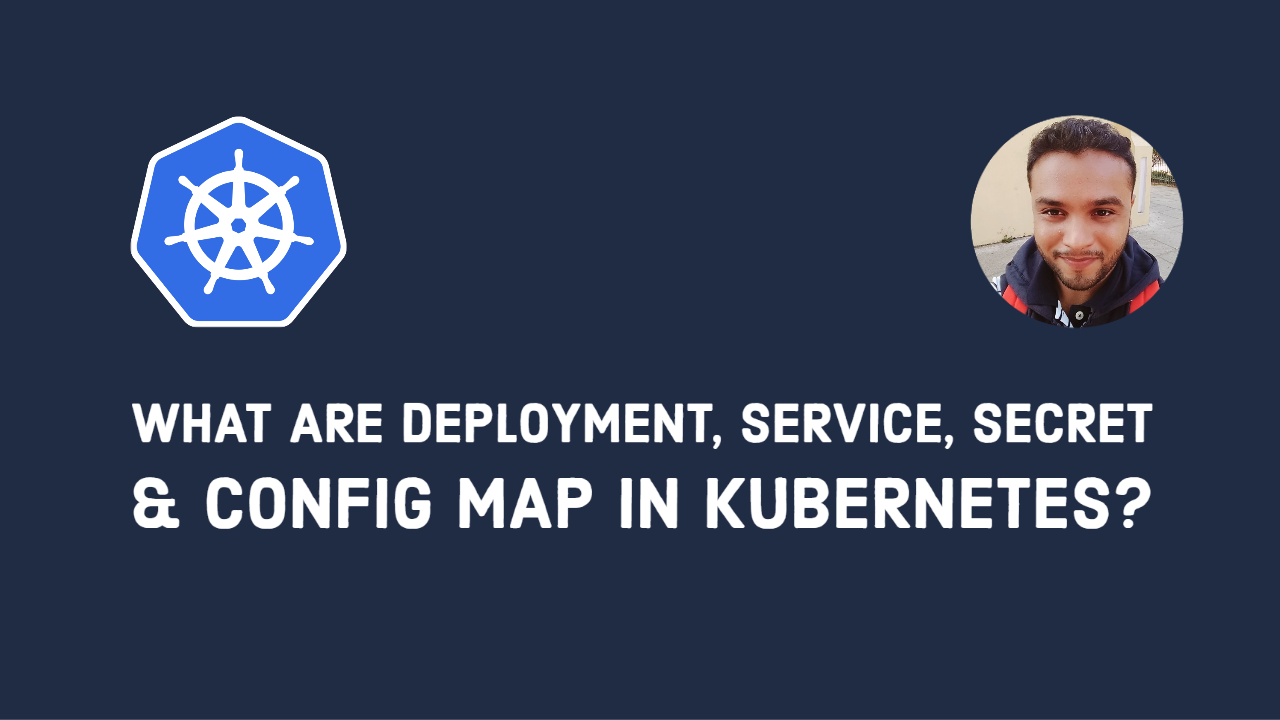
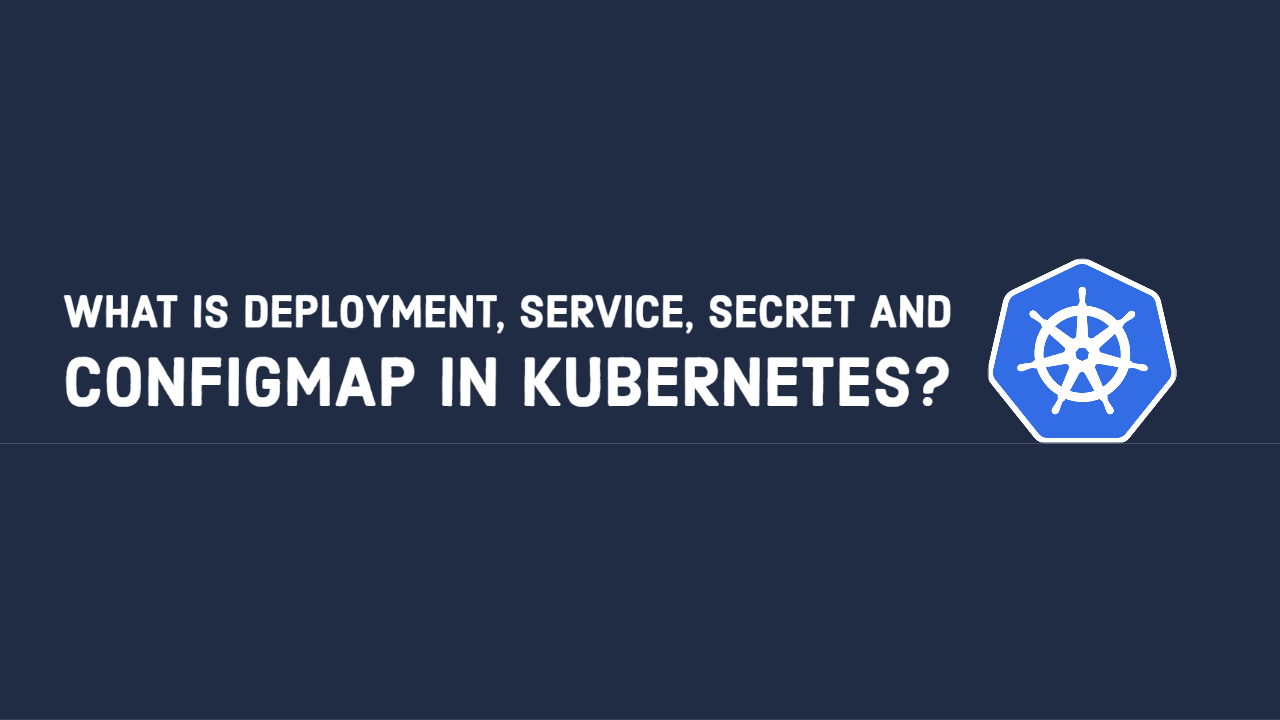
Added kubernetes blog

Changed region(s): [[0.0312, 0.1528, 0.9375, 0.7333], [0.0312, 0.1528, 0.75, 0.4583]]

diff --git a/_scheduled_posts/2020-05-31-k8s-session-01.md b/_scheduled_posts/2020-05-31-k8s-session-01.md
@@ -1,0 +1,117 @@
+---
+layout: post
+title:  "What is Deployment, Service, Secret and ConfigMap in Kubernetes?"
+date:   2020-05-31
+categories: [kubernetes]
+---
+
+![What is Deployment, Service, Secret and ConfigMap in Kubernetes?](https://raw.githubusercontent.com/sagar-jadhav/sagar-jadhav.github.io/master/static/img/_posts/kubernetes/1.png)
+
+Intend of blog is to explain use of following kubernetes resources using phpMyAdmin application deployment:
+- Deployment
+- Service
+- Secret
+- ConfigMap
+
+Before going deep dive into deployment architecture let's first understand this concepts.
+
+### Deployment
+Deployments represent a set of multiple, identical Pods with no unique identities. Learn more [here](https://kubernetes.io/docs/concepts/workloads/controllers/deployment/)
+
+### Service
+Services are use to group pods together using labels & selectors. Learn more [here](https://kubernetes.io/docs/concepts/services-networking/service/)
+
+### Secret
+Secrets are used to store confidential attributes such as password, API key etc. Learn more [here](https://kubernetes.io/docs/concepts/configuration/secret/)
+
+### ConfigMap
+ConfigMaps are used to store configuration parameters such hostname, port etc. Learn more [here](https://kubernetes.io/docs/tasks/configure-pod-container/configure-pod-configmap/)
+
+## Architecture
+
+![Architecture](https://raw.githubusercontent.com/sagar-jadhav/sagar-jadhav.github.io/master/static/img/_posts/kubernetes/1_arch.jpg)
+
+phpMyAdmin application comprises of two components UI (phpMyAdmin) and database (MySQL). 
+
+## Prerequisites:
+
+### Clone github repository
+```
+git clone https://github.com/sagar-jadhav/kubernetes-essentials.git
+```
+
+### Go to `session_1` directory
+```
+cd ./kubernetes-essentials/session_1/
+```
+
+## Step 1: Create demo namespace
+
+```
+kubectl create namespace demo
+```
+
+## Step 2: Set current namespace to demo
+
+```
+kubectl config set-context --current --namespace=demo
+```
+
+## Step 3: Create secret db-secret
+Store MySQL root password in secret.
+
+```
+kubectl create -f secret.yaml
+```
+
+## Step 4: Create configmap db-config
+Store host & port in configmap
+
+```
+kubectl create -f configmap.yaml
+```
+
+## Step 5: Create deployment for MySQL
+
+```
+kubectl create -f db-deployment.yaml
+```
+```
+kubectl get pods --watch
+```
+Exit when pod goes into running state
+
+
+## Step 6: Create service for MySQL
+Here service type `ClusterIP` is used so that it is accessible only inside the cluster. 
+
+```
+kubectl create -f db-service.yaml
+```
+
+## Step 7: Create deployment for phpmyadmin
+
+```
+kubectl create -f phpmyadmin-deployment.yaml
+```
+```
+kubectl get pods --watch
+```
+Exit when pod goes into running state
+
+## Step 8: Create service for phpmyadmin
+Here service type `NodePort` is used so that it is accessible outside the cluster. 
+
+```
+kubectl create -f phpmyadmin-service.yaml
+```
+
+## Step 9: Browse phpmyadmin application
+
+Go to browser and browse http://<IP_ADDRESS>:30030. Login with `root` user & `test` password
+
+here IP_ADDRESS is the ip address of virtual machine where kubernetes is running.
+ 
+## Demo
+
+<iframe width="480" height="360" src="https://www.youtube.com/embed/0u1RXY43JhY" frameborder="0" allowfullscreen></iframe>

diff --git a/_scheduled_posts/2020-06-07-k8s-session-02.md b/_scheduled_posts/2020-06-07-k8s-session-02.md
@@ -1,0 +1,79 @@
+---
+layout: post
+title:  "What is Persistent Volume (PV) & Persistent Volume Claim (PVC) in Kubernetes?"
+date:   2020-06-07
+categories: [kubernetes]
+---
+
+![What is Persistent Volume (PV) & Persistent Volume Claim (PVC) in Kubernetes?](https://raw.githubusercontent.com/sagar-jadhav/sagar-jadhav.github.io/master/static/img/_posts/kubernetes/2.png)
+
+Here, I am covering concepts of `persistent volume` (PV) & `persistent volume claim` (PVC). In the previous [blog](<CHANGE_ME>) I have covered how to deploy PHPMyAdmin application in kubernetes. PHPMyAdmin application does not have a persistent storage. Hence If MySQL pod die due to some unexpected error for e.g. resource crunch then data stored in database will also get deleted as data by default stored in pod. Pods by default are stateless in nature. Hence to persist MySQL data `PV` &  `PVC` is required.
+
+### Persistent Volume (PV)
+Storage provisioned by administrator. Learn more [here](https://kubernetes.io/docs/concepts/storage/persistent-volumes/)
+
+### Persistent Volume Clain (PVC)
+Request for a storage by user. Learn more [here](https://kubernetes.io/docs/concepts/storage/persistent-volumes/)
+
+## Architecture
+
+![Architecture](https://raw.githubusercontent.com/sagar-jadhav/sagar-jadhav.github.io/master/static/img/_posts/kubernetes/2_arch.jpg)
+
+## Prerequisites:
+
+### Deploy PHPMyAdmin Application
+Follow [Deploy phpMyAdmin application on kubernetes](<CHANGE_ME>) blog
+
+### Go to session_2 directory
+```
+cd ../session_2/
+```
+
+## Step 1: Create NFS share
+Reference:
+- https://www.linuxbabe.com/ubuntu/nfs-share
+- https://vitux.com/install-nfs-server-and-client-on-ubuntu/
+
+I have created NFS mount at `/mnt/share` location on VM with IP `192.168.1.6`
+
+## Step 2: Create Persistent Volume (PV) 
+```
+kubectl create -f db-pv.yaml
+```
+
+## Step 3: Create Persistent Volume Claim (PVC)
+```
+kubectl create -f db-pvc.yaml
+```
+
+## Step 4: List PV & PVC
+```
+kubectl get pvc
+```
+```
+kubectl get pv
+```
+
+## Step 5: Redeploy MySQL deployment
+```
+kubectl delete deployment db
+```
+```
+kubectl create -f db-deployment.yaml
+```
+Here `db-deployment.yaml` is updated YAML with volume & volume mounts. Next watch pods.
+```
+kubectl get pods -n watch
+```
+Exit once db pod goes into running state.
+
+## Step 6: Go to mount directory and list files
+```
+cd /mnt/share
+```
+```
+ls -ltr
+```
+## Demo
+
+<iframe width="480" height="360" src="https://www.youtube.com/embed/uUsuHvOohDk" frameborder="0" allowfullscreen></iframe>

diff --git a/_scheduled_posts/2020-06-14-k8s-session-03.md b/_scheduled_posts/2020-06-14-k8s-session-03.md
@@ -1,0 +1,65 @@
+---
+layout: post
+title:  "What is Ingress Controller in Kubernetes?"
+date:   2020-06-14
+categories: [kubernetes]
+---
+
+![What is Ingress Controller in Kubernetes?](https://raw.githubusercontent.com/sagar-jadhav/sagar-jadhav.github.io/master/static/img/_posts/kubernetes/3.png)
+
+In [Deploy phpMyAdmin application on kubernetes](<CHANGE_ME>) blog I used `NodePort` service type to expose application to external world but disadvantage with that approach is `port` needs to be exposed on each node and there is a dependency on external load balancer for load balancing requests, custom hostname and SSL/TLS encryption support etc. With the help of `Ingress` controllers I can eliminate dependency on external load balancer. In this blog I am using `Nginx Ingress` controller to expose PHPMyAdmin application to external world. Learn more about ingress controller [here](https://kubernetes.io/docs/concepts/services-networking/ingress/) 
+
+## Architecture
+
+![Architecture](https://raw.githubusercontent.com/sagar-jadhav/sagar-jadhav.github.io/master/static/img/_posts/kubernetes/3_arch.jpg)
+
+## Prerequisites:
+
+### Deploy PHPMyAdmin Application
+Follow [Deploy phpMyAdmin application on kubernetes](<CHANGE_ME>) blog
+
+### Go to session_2 directory
+```
+cd ../session_3/
+```
+
+## Step 1: Enable Nginx ingress controller
+```
+minikube addons enable ingress
+```
+```
+kubectl get pods --watch -n kube-system
+```
+Exit once controller pod goes into running state
+
+This step is valid only for `Minikube`. Check steps to enable `Nginx Ingress` controller on `Kubernetes` [here](https://www.nginx.com/products/nginx/kubernetes-ingress-controller/)
+
+## Step 2: Delete PHPMyAdmin NodePort service
+```
+kubectl delete svc phpmyadmin
+```
+
+## Step 3: Deploy PHPMyAdmin ClusterIP service
+```
+kubectl create -f phpmyadmin-service.yaml
+```
+
+## Step 4: Deploy PHPMyAdmin Ingress rule
+```
+kubectl create -f phpmyadmin-ingress.yaml
+```
+```
+kubectl get ingress --watch
+```
+Exit once address gets populated
+
+## Step 5: Update hosts file custome hostname
+Add below entry in /etc/hosts
+```
+<INGRESS_ADDRESS> myapp.xyz
+```
+Get <INGRESS_ADDRESS> from `kubectl get ingress`
+
+## Demo
+
+<iframe width="480" height="360" src="https://www.youtube.com/embed/ZS1TaAmuNl4" frameborder="0" allowfullscreen></iframe>

diff --git a/_scheduled_posts/2020-06-28-k8s-session-05.md b/_scheduled_posts/2020-06-28-k8s-session-05.md
@@ -1,0 +1,78 @@
+---
+layout: post
+title:  "How to deploy application using Helm in Kubernetes?"
+date:   2020-06-28
+categories: [kubernetes]
+---
+
+![How to deploy application using Helm in Kubernetes?](https://raw.githubusercontent.com/sagar-jadhav/sagar-jadhav.github.io/master/static/img/_posts/kubernetes/5.png)
+
+Let's learn How to deploy PHPMyAdmin application using helm chart? Learn more about helm [here](https://helm.sh/).
+
+## Prerequisites:
+
+### Create NFS share
+Reference:
+- https://www.linuxbabe.com/ubuntu/nfs-share
+- https://vitux.com/install-nfs-server-and-client-on-ubuntu/
+
+### Install Helm
+Refer installation guide [here](https://helm.sh/docs/intro/install/)
+
+### Clone github repository
+```
+git clone https://github.com/sagar-jadhav/kubernetes-essentials.git
+```
+
+### Go to `session_5` directory
+```
+cd ./kubernetes-essentials/session_5/
+```
+
+## Enable Nginx ingress controller
+```
+minikube addons enable ingress
+```
+```
+kubectl get pods --watch -n kube-system
+```
+Exit once controller pod goes into running state
+
+## Step 1: Create PHPMyAdmin helm chart
+```
+helm create phpmyadmin
+```
+
+## Step 2: Add all application YAML files to templates directory
+Remove unwanted files from template directory
+```
+rm -rf ./phpmyadmin/templates/*
+```
+Copy YAML files
+```
+cp configmap.yaml db-deployment.yaml db-pv.yaml db-pvc.yaml db-service.yaml secret.yaml phpmyadmin-deployment.yaml phpmyadmin-ingress.yaml phpmyadmin-service.yaml ./phpmyadmin/templates/
+```
+
+## Step 3: Package helm chart
+```
+helm package phpmyadmin
+```
+
+## Step 4: Deploy PHPMyAdmin application
+```
+helm install phpmyadmin ./phpmyadmin-0.1.0.tgz
+```
+
+## Step 5: List helm release
+```
+helm ls
+```
+
+## Step 6: List pods
+```
+kubectl get pods
+```
+
+## Demo
+
+<iframe width="480" height="360" src="https://www.youtube.com/embed/7yjyLG66Rk0" frameborder="0" allowfullscreen></iframe>

diff --git a/_scheduled_posts/2020-06-21-k8s-session-04.md b/_scheduled_posts/2020-06-21-k8s-session-04.md
@@ -1,0 +1,48 @@
+---
+layout: post
+title:  "What is Readiness & Liveness Probes in Kubernetes?"
+date:   2020-06-21
+categories: [kubernetes]
+---
+
+![What is Readiness & Liveness Probes in Kubernetes?](https://raw.githubusercontent.com/sagar-jadhav/sagar-jadhav.github.io/master/static/img/_posts/kubernetes/4.png)
+
+Kubernetes uses `Readiness` & `Liveness` probes to manage pod lifecycle. Readiness probe is used to determine whether pod is ready to accept the traffic or not and liveness probe is used to determine whether pod is functioning properly or not. Read more about them [here](https://kubernetes.io/docs/tasks/configure-pod-container/configure-liveness-readiness-startup-probes/). In this blog I am adding readiness & liveness probe to PHPMyAdmin application.
+
+## Architecture
+
+![Architecture](https://raw.githubusercontent.com/sagar-jadhav/sagar-jadhav.github.io/master/static/img/_posts/kubernetes/4_arch.jpg)
+
+## Prerequisites:
+
+### Deploy PHPMyAdmin Application
+Follow [Deploy phpMyAdmin application on kubernetes](<CHANGE_ME>) blog
+
+### Go to session_4 directory
+```
+cd ../session_4/
+```
+
+## Step 1: Delete PHPMyAdmin deployment
+```
+kubectl delete deployment phpmyadmin
+```
+
+## Step 2: Deploy PHPMyAdmin deployment with Readiness & Liveness probes
+```
+kubectl create -f phpmyadmin-deployment.yaml
+```
+```
+kubectl get pods --watch
+```
+Exit once pod goes into running state
+
+## Step 9: Browse phpmyadmin application
+
+Go to browser and browse http://<IP_ADDRESS>:30030. Login with `root` user & `test` password
+
+here IP_ADDRESS is the ip address of virtual machine where kubernetes is running.
+ 
+## Demo
+
+<iframe width="480" height="360" src="https://www.youtube.com/embed/c9cnPuD6QgU" frameborder="0" allowfullscreen></iframe>

diff --git a/category/kubernetes.md b/category/kubernetes.md
@@ -1,0 +1,6 @@
+---
+layout: posts_by_category
+categories: kubernetes
+title: Kubernetes
+permalink: /category/kubernetes
+---
